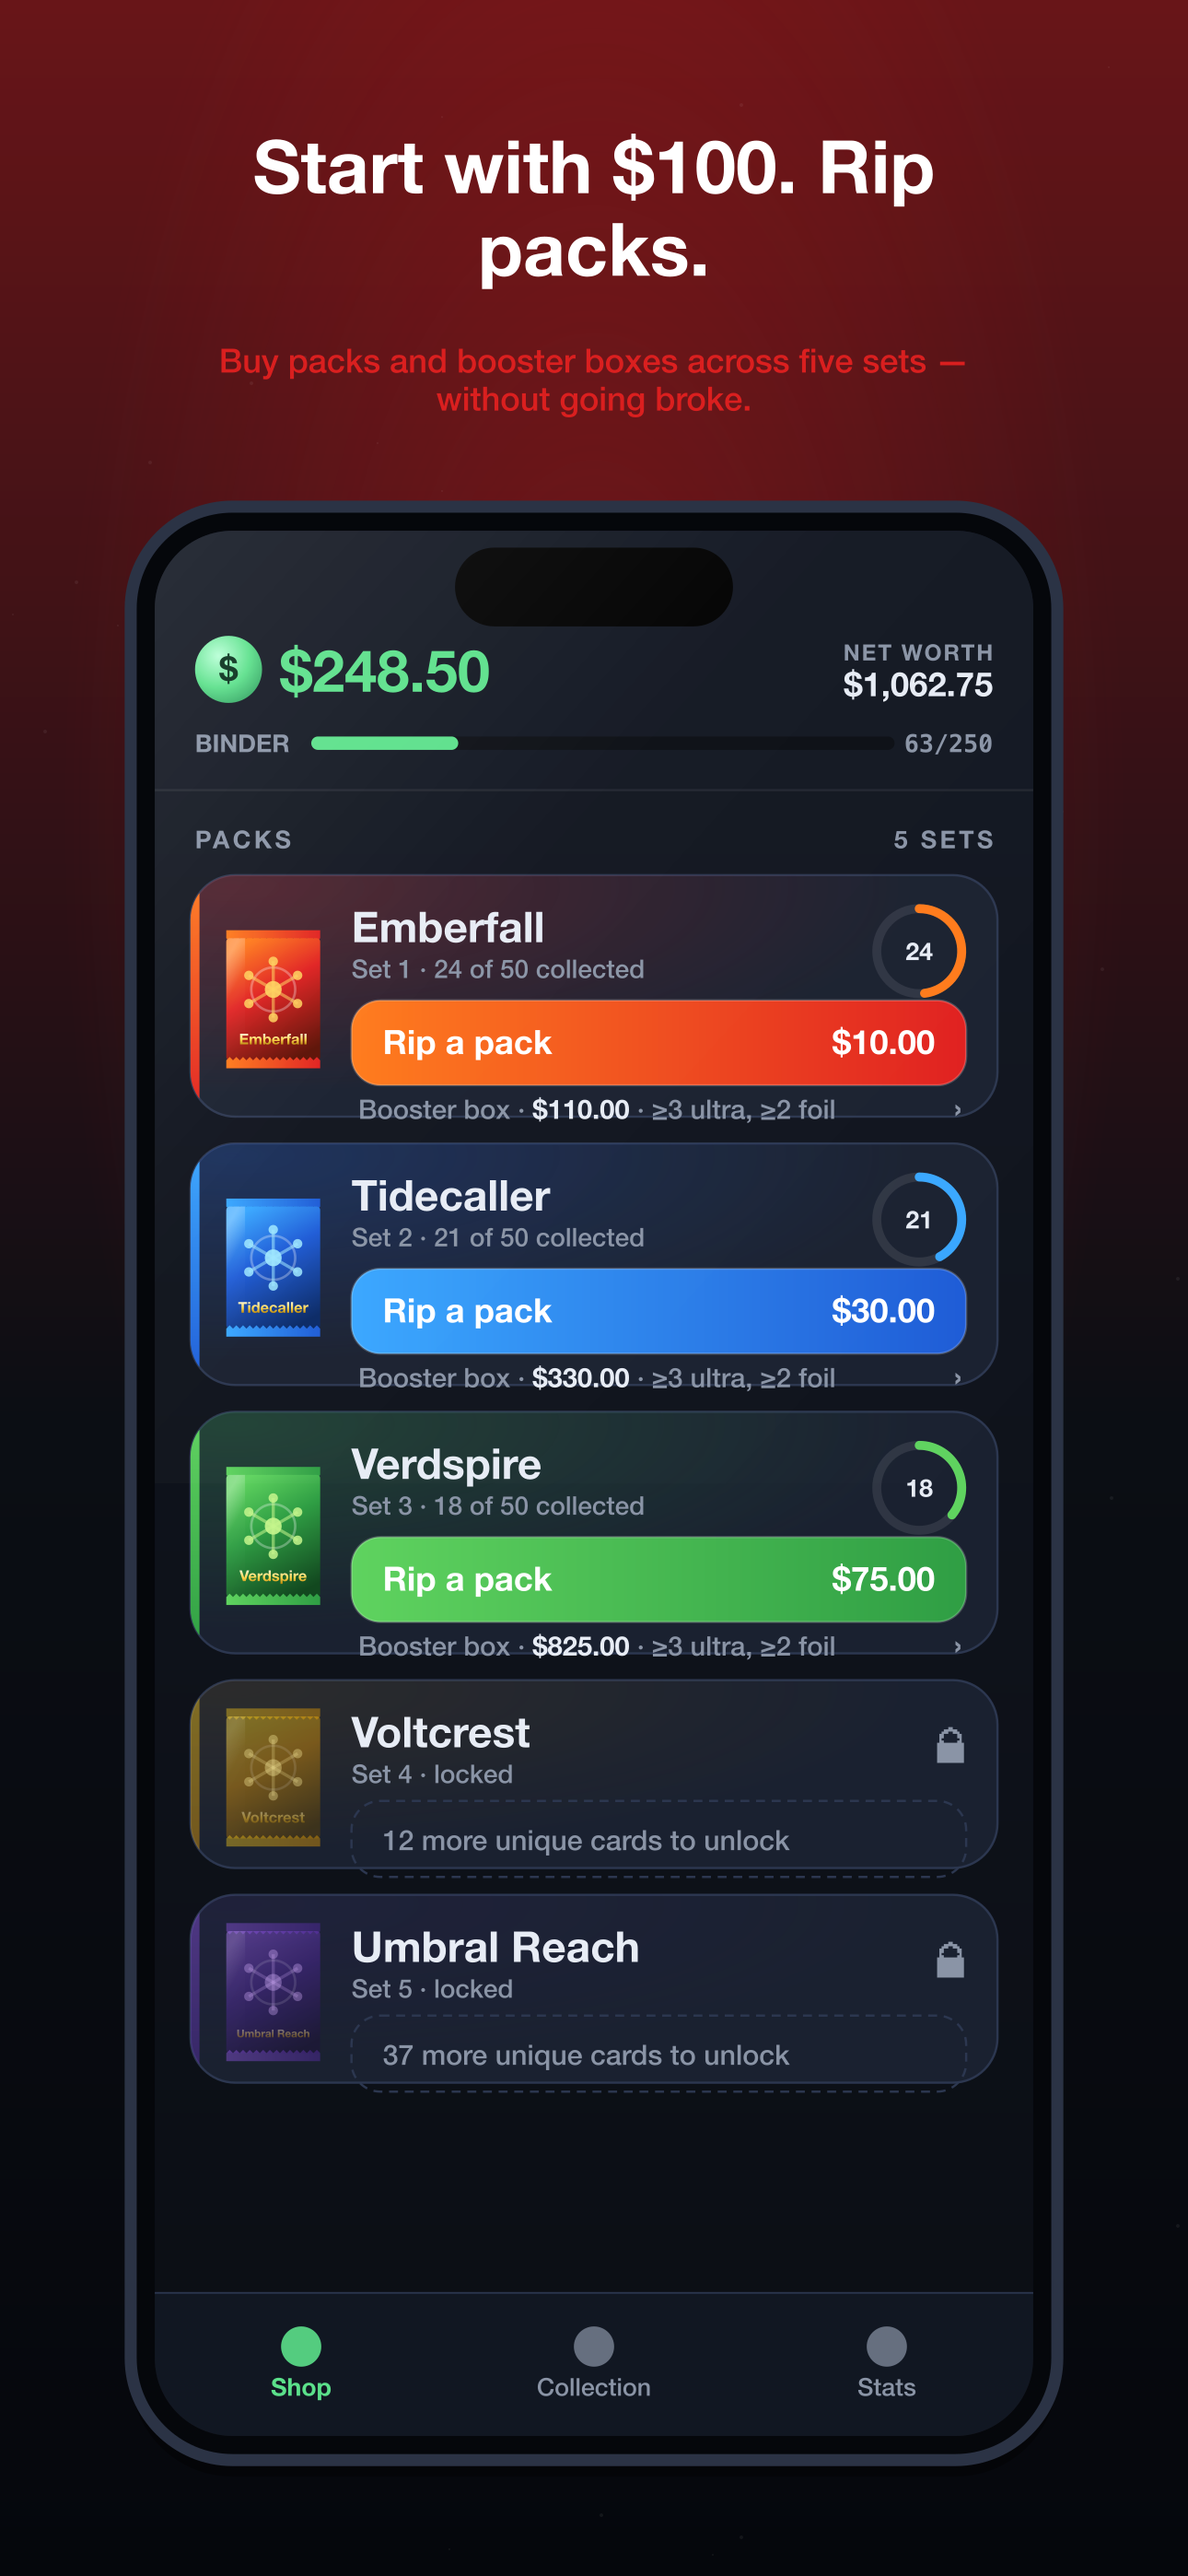
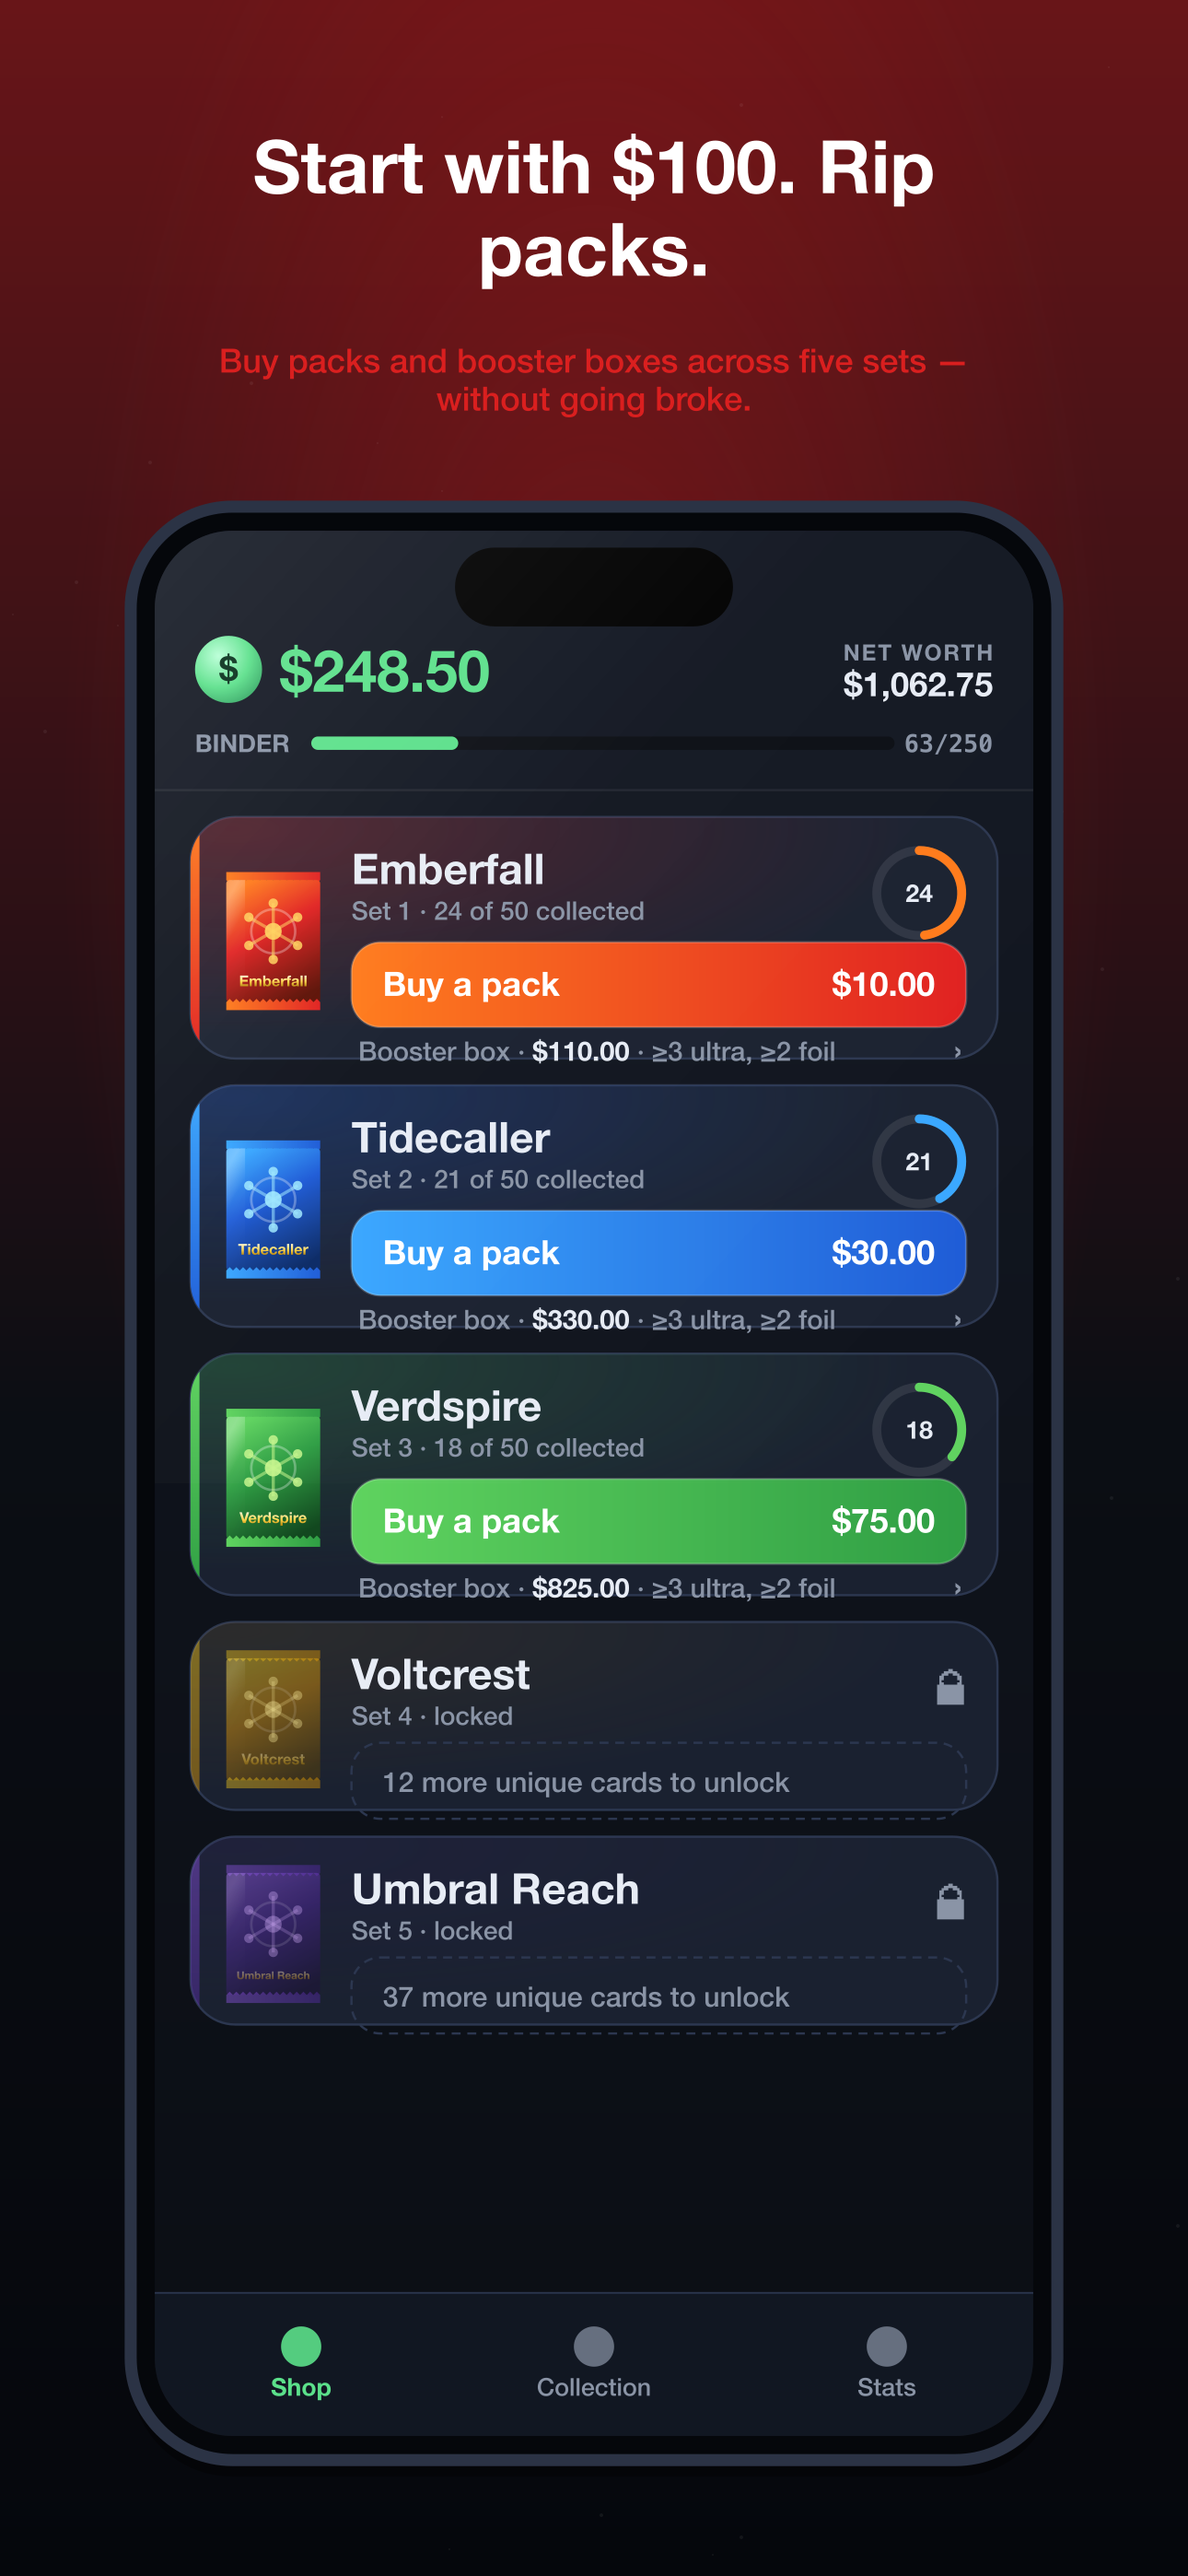
Drop the shop section eyebrow and rename the buy button
The "PACKS / 5 SETS" eyebrow above the shop shelf restated what the
screen already made obvious — the five set rows below it are visibly
packs, and they are visibly five — so it cost a row of vertical space
for nothing. Removing it lets the shelf start one gutter below the
wallet header and pulls every set row up about 25pt, which matters most
on the small screens where the fifth set was previously cut off.

SectionEyebrow had no other call sites, so it goes with it rather than
lingering as dead code.

The primary button now reads "Buy a pack" instead of "Rip a pack". The
button spends money; the ripping happens on the next screen, where the
tap-to-tear interaction actually lives. Its accessibility label follows
the visible text, while the buyPack identifier the UI tests drive stays
put.

The marketing render in tools/generate_screenshots.py mirrors the same
two changes so docs/screenshots keeps showing UI that exists. Only the
shop scene moves; the other four regenerate byte-identical. Taglines
like "Rip packs, chase the rares." are branding rather than UI labels,
so they stay.

Changed region(s): [[0.155, 0.3112, 0.8372, 0.809]]

diff --git a/TradingUp/Views/ShopView.swift b/TradingUp/Views/ShopView.swift
@@ -14,7 +14,6 @@ struct ShopView: View {
                 WalletHeader(freeze: freeze)
                 ScrollView {
                     LazyVStack(spacing: 12) {
-                        SectionEyebrow(title: "Packs", trailing: "\(CardDatabase.setCount) sets")
                         ForEach(1...CardDatabase.setCount, id: \.self) { set in
                             SetShelfRow(set: set, freeze: freeze, revealInFlight: isRevealInFlight) { buyPack(set) } onBuyBox: { buyBox(set) }
                         }
@@ -187,25 +186,6 @@ struct WalletHeader: View {
     }
 }
 
-/// The small all-caps label that heads a list section.
-struct SectionEyebrow: View {
-    let title: String
-    var trailing: String? = nil
-
-    var body: some View {
-        HStack {
-            Text(title.uppercased())
-            Spacer()
-            if let trailing { Text(trailing.uppercased()) }
-        }
-        .font(.system(size: 11, weight: .heavy))
-        .tracking(1.4)
-        .foregroundStyle(Palette.subtle)
-        .padding(.horizontal, 2)
-        .padding(.bottom, 2)
-    }
-}
-
 // MARK: - Per-set shelf row
 
 /// One set on the shop shelf: the pack itself, how far the set has come, one
@@ -293,7 +273,7 @@ struct SetShelfRow: View {
         VStack(spacing: 8) {
             Button(action: onBuyPack) {
                 HStack {
-                    Text("Rip a pack").font(.system(size: 15, weight: .bold))
+                    Text("Buy a pack").font(.system(size: 15, weight: .bold))
                     Spacer(minLength: 8)
                     Text(packPrice.money).font(.system(size: 15, weight: .black, design: .rounded))
                 }
@@ -313,7 +293,7 @@ struct SetShelfRow: View {
             .buttonStyle(.plain)
             .disabled(!canBuyPack)
             .accessibilityIdentifier("buyPack")
-            .accessibilityLabel("Rip a pack, \(CardDatabase.setName(set)), 6 cards, \(packPrice.money)")
+            .accessibilityLabel("Buy a pack, \(CardDatabase.setName(set)), 6 cards, \(packPrice.money)")
 
             if FeatureFlags.boosterBoxesAvailable {
                 Button(action: onBuyBox) {

diff --git a/tools/generate_screenshots.py b/tools/generate_screenshots.py
@@ -458,7 +458,7 @@ def shelf_row(defs, x, y, w, set_no, owned, unlocked, remaining=0):
         g = defs.linear([("0%", pal[1], "1"), ("100%", pal[2], "1")], x1=0, y1=0, x2=1, y2=0)
         out.append(rrect(tx, by, tw, bh, 13, grad=g))
         out.append(rrect(tx, by, tw, bh, 13, stroke="#ffffff", sw=1, opacity=0.2))
-        out.append(text(tx + 14, by + 24, "Rip a pack", 15, "#ffffff", weight=700))
+        out.append(text(tx + 14, by + 24, "Buy a pack", 15, "#ffffff", weight=700))
         out.append(text(tx + tw - 14, by + 24, money(PACK_PRICES[set_no]), 15, "#ffffff",
                         weight=900, anchor="end"))
         ly = by + bh + 15
@@ -500,10 +500,9 @@ def screen_shop(defs):
     out.append(progress(defs, 70, 92, SCREEN_W - 70 - 18 - 44, 63 / 250, MONEY, h=6))
     out.append(text(SCREEN_W - 18, 99, "63/250", 11, SUBTLE, weight=700, anchor="end", family=MONO))
 
-    y = 142
-    out.append(text(m + 2, y, "PACKS", 11, SUBTLE, weight=800, tracking=1.4))
-    out.append(text(SCREEN_W - m - 2, y, "5 SETS", 11, SUBTLE, weight=800, tracking=1.4, anchor="end"))
-    y += 12
+    # Shelf starts one gutter below the pinned header, matching ShopView's
+    # LazyVStack top padding now that the section eyebrow is gone.
+    y = 128
 
     rows = [(1, 24, True, 0), (2, 21, True, 0), (3, 18, True, 0), (4, 0, False, 12), (5, 0, False, 37)]
     for set_no, owned, unlocked, remaining in rows:
